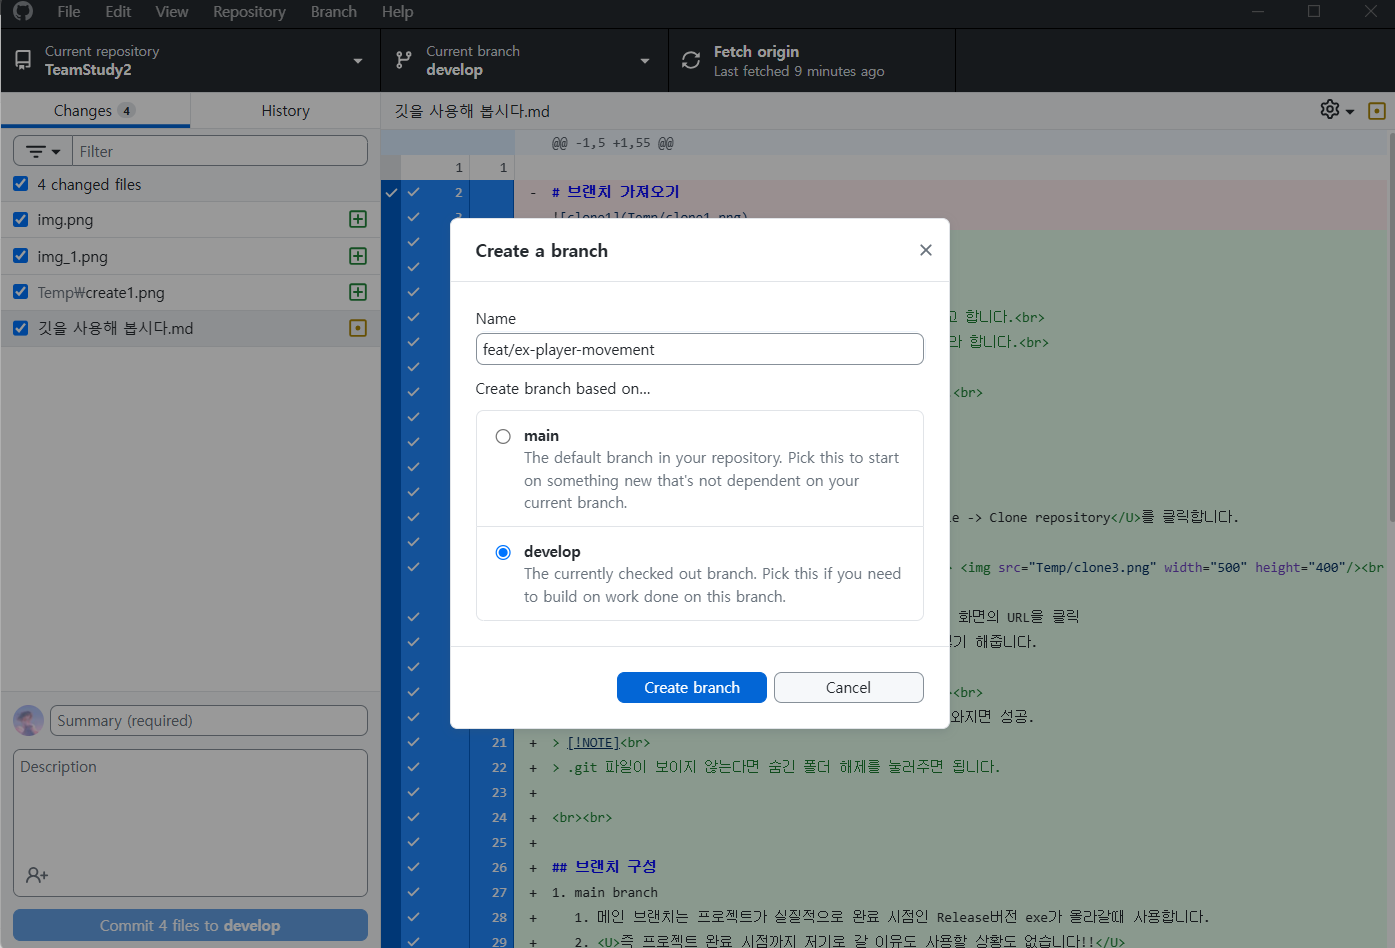
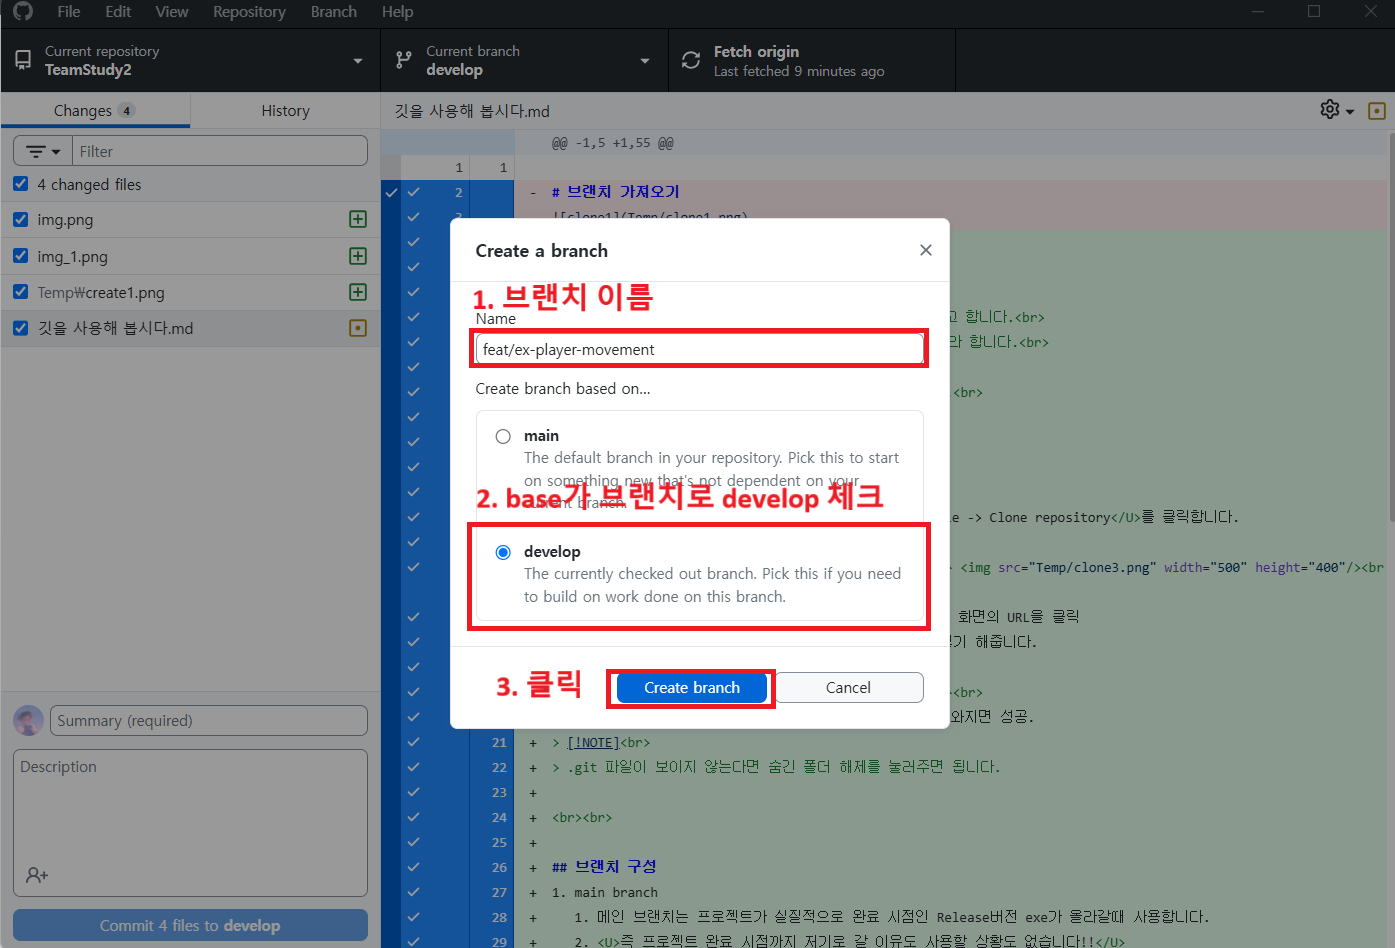
img

Changed region(s): [[0.3082, 0.4895, 0.6781, 0.673], [0.3391, 0.2753, 0.6781, 0.3977], [0.3391, 0.7036, 0.5548, 0.7648]]

diff --git a/깃을 사용해 봅시다.md b/깃을 사용해 봅시다.md
@@ -51,6 +51,9 @@
 2. 최신 develop을 가져오기 위해 ***항상!*** ***Fetch Origin***을 눌러줍니다.  
 <br>
 <img src="Temp/create1.png" width="600" height="500"/><br>
+<br><br>
+
+1. <img src="Temp/create1.png" width="600" height="500"/><br>
 <img src="Temp/create2.png" width="600" height="500"/><br>
 <img src="Temp/create3.png" width="600" height="500"/><br>
 
